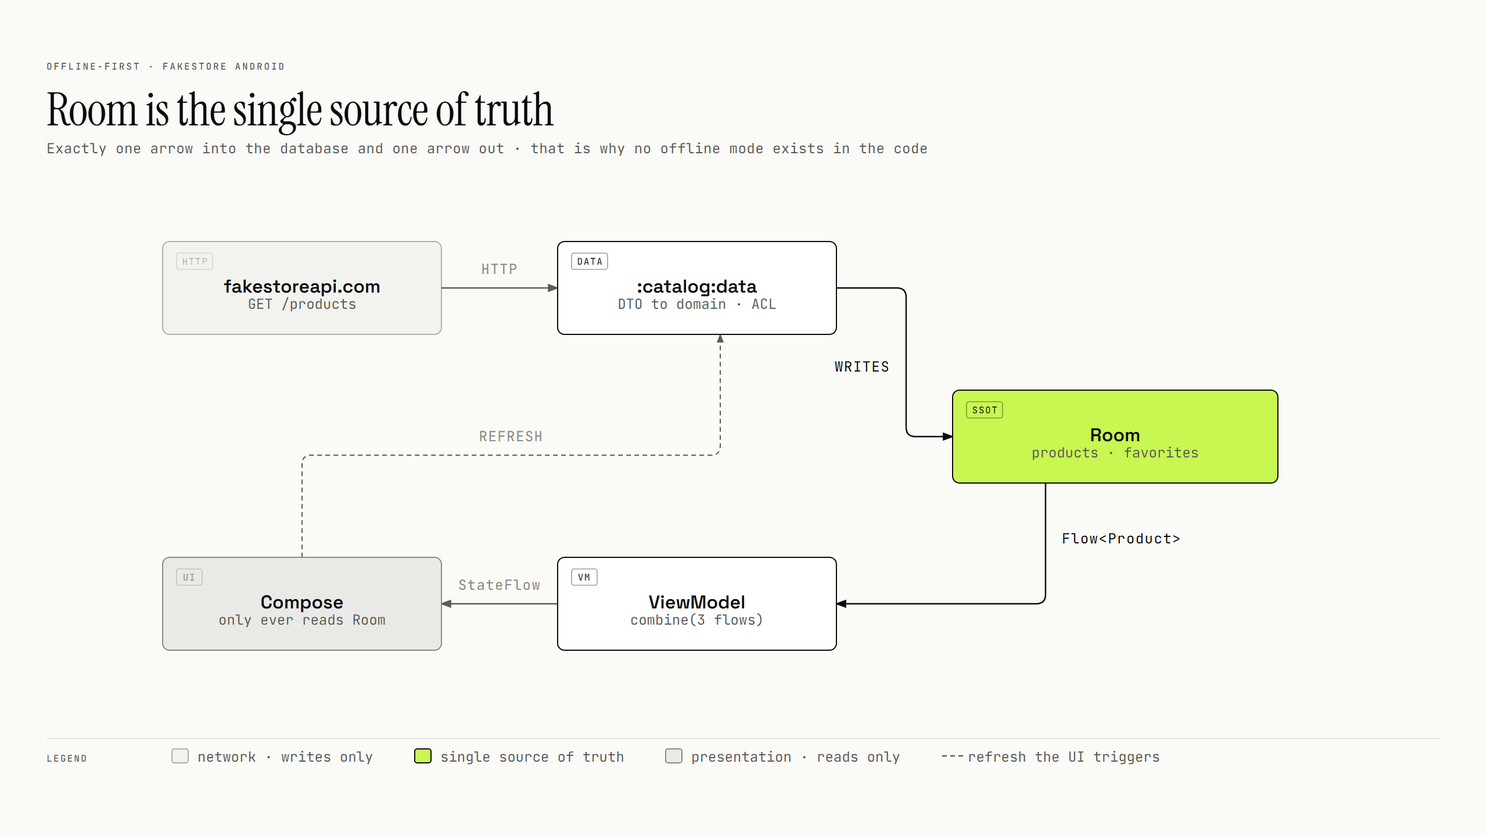
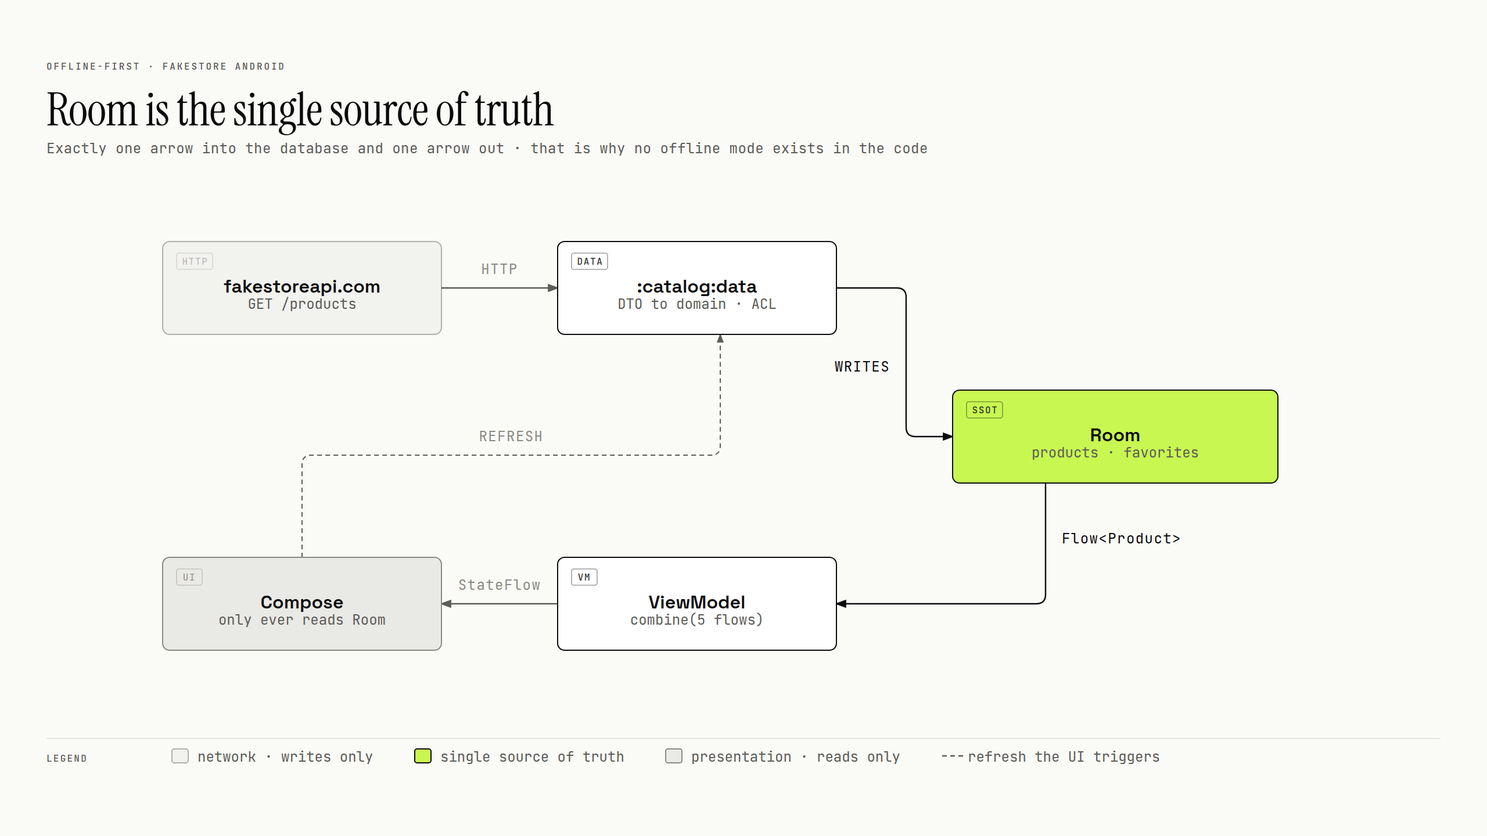
chore(docs): accuracy of various statements

diff --git a/docs/diagrams/01-module-graph.html b/docs/diagrams/01-module-graph.html
@@ -36,7 +36,7 @@
 
   <text x="40" y="60" fill="#5c5c56" font-size="8" font-family="'JetBrains Mono', ui-monospace, monospace" font-weight="500" letter-spacing="0.18em">ARCHITECTURE · FAKESTORE ANDROID</text>
   <text x="40" y="108" fill="#0b0b0c" font-size="40" font-family="'Instrument Serif', serif" font-weight="400" letter-spacing="-0.01em">Layers are Gradle modules</text>
-  <text x="40" y="132" fill="#5c5c56" font-size="12" font-family="'JetBrains Mono', ui-monospace, monospace" letter-spacing="0.02em">13 modules · the purity of :domain is a classpath property, not a code-review convention</text>
+  <text x="40" y="132" fill="#5c5c56" font-size="12" font-family="'JetBrains Mono', ui-monospace, monospace" letter-spacing="0.02em">13 production modules · the purity of :domain is a classpath property, not a code-review convention</text>
 
   <rect x="80" y="240" width="520" height="240" rx="8" fill="rgba(11,11,12,0.02)" stroke="rgba(11,11,12,0.10)" stroke-width="0.8"/>
   <rect x="96" y="244" width="136" height="14" rx="2" fill="#fafaf7"/>
@@ -106,7 +106,7 @@
   <rect x="988" y="402" width="31" height="14" rx="2" fill="none" stroke="#5c5c56" stroke-opacity="0.40" stroke-width="0.8"/>
   <text x="1004" y="412" fill="#5c5c56" fill-opacity="0.85" font-size="8" font-family="'JetBrains Mono', ui-monospace, monospace" font-weight="500" text-anchor="middle" letter-spacing="0.10em">DATA</text>
   <text x="1076" y="436" fill="#0b0b0c" font-size="16" font-weight="600" font-family="'Space Grotesk', system-ui, sans-serif" text-anchor="middle">:favorites:data</text>
-  <text x="1076" y="450" fill="#5c5c56" font-size="12" font-family="'JetBrains Mono', ui-monospace, monospace" text-anchor="middle">Room · optimistic</text>
+  <text x="1076" y="450" fill="#5c5c56" font-size="12" font-family="'JetBrains Mono', ui-monospace, monospace" text-anchor="middle">Room · local-first</text>
   <rect x="104" y="540" width="320" height="64" rx="6" fill="#fafaf7"/>
   <rect x="104" y="540" width="320" height="64" rx="6" fill="rgba(11,11,12,0.03)" stroke="rgba(11,11,12,0.30)" stroke-width="1"/>
   <rect x="116" y="550" width="36" height="14" rx="2" fill="none" stroke="rgba(11,11,12,0.30)" stroke-opacity="0.40" stroke-width="0.8"/>

diff --git a/docs/diagrams/02-single-source-of-truth.html b/docs/diagrams/02-single-source-of-truth.html
@@ -76,7 +76,7 @@
   <rect x="492" y="490" width="22" height="14" rx="2" fill="none" stroke="#0b0b0c" stroke-opacity="0.40" stroke-width="0.8"/>
   <text x="503" y="500" fill="#0b0b0c" fill-opacity="0.85" font-size="8" font-family="'JetBrains Mono', ui-monospace, monospace" font-weight="500" text-anchor="middle" letter-spacing="0.10em">VM</text>
   <text x="600" y="524" fill="#0b0b0c" font-size="16" font-weight="600" font-family="'Space Grotesk', system-ui, sans-serif" text-anchor="middle">ViewModel</text>
-  <text x="600" y="538" fill="#5c5c56" font-size="12" font-family="'JetBrains Mono', ui-monospace, monospace" text-anchor="middle">combine(3 flows)</text>
+  <text x="600" y="538" fill="#5c5c56" font-size="12" font-family="'JetBrains Mono', ui-monospace, monospace" text-anchor="middle">combine(5 flows)</text>
   <rect x="140" y="480" width="240" height="80" rx="6" fill="#fafaf7"/>
   <rect x="140" y="480" width="240" height="80" rx="6" fill="rgba(92,92,86,0.10)" stroke="#8a8a82" stroke-width="1"/>
   <rect x="152" y="490" width="22" height="14" rx="2" fill="none" stroke="#8a8a82" stroke-opacity="0.40" stroke-width="0.8"/>

diff --git a/docs/ARCHITECTURE.md b/docs/ARCHITECTURE.md
@@ -26,8 +26,17 @@ diseño elegido es el que hace compatibles SDUI y offline-first.
 - **Clean Architecture dentro de cada contexto** → `ui → domain ← data`, con inversión de dependencias.
 
 Al ser DDD ortodoxo, **las capas son módulos Gradle, no paquetes**. La consecuencia práctica es la que
-importa: `domain` no puede importar Retrofit ni Room porque no los tiene en el classpath. La disciplina la
-impone la herramienta, no la buena voluntad ni la revisión de código.
+importa: `domain` no tiene Retrofit ni Room en su classpath, así que importarlos ahí no compila.
+
+Vale la pena ser preciso, porque la versión absoluta de esa frase es falsa. No es imposible: se arregla
+agregando la dependencia al `build.gradle.kts` del módulo, que son nueve líneas. Lo que deja de poder
+hacerse es cometer la violación **desde el código de la aplicación** — hay que ir a un archivo de build
+donde el diff la declara. La regla no la impone un candado; la impone el classpath recortado, y lo que
+gana no es imposibilidad sino visibilidad.
+
+Hay un punto donde sí es absoluto: `*:domain` aplica `org.jetbrains.kotlin.jvm`, no `com.android.library`,
+así que no tiene `android.jar` en su classpath de compilación. `import android.content.Context` no resuelve
+nunca, agregues la dependencia que agregues; haría falta cambiarle el plugin al módulo.
 
 ### Grafo de módulos
 
@@ -39,16 +48,16 @@ impone la herramienta, no la buena voluntad ni la revisión de código.
 :catalog:ui              Compose + ViewModels + UiState + UiMappers.
 
 :favorites:domain        Kotlin puro. FavoritesRepository, ToggleFavorite, ObserveFavoriteIds.
-:favorites:data          Room. Escritura optimista local.
+:favorites:data          Room. Escritura local sobre FavoriteDao.
 :favorites:ui            Pantalla de favoritos.
 
 :shared:kernel           Kotlin puro. Lenguaje ubicuo: ProductId, AppError.
-:core:common             Either, DispatcherProvider, Formatters, Clock. Kotlin puro.
+:core:common             Kotlin puro. Either y sus operadores (map, flatMap, fold).
 :core:connectivity       NetworkMonitor (ConnectivityManager → Flow<Boolean>).
 :core:network            Retrofit/OkHttp/kotlinx.serialization, executeCall, ACL de errores.
 :core:database           Instancia física única de Room + entities + DAOs + migraciones.
-:core:designsystem       Tema M3, tokens, átomos, moléculas, organismos, FsIcons, test tags.
-:core:testing            Extensiones JUnit5, fakes, factories.
+:core:designsystem       Tema M3, tokens, átomos, moléculas, organismos, FsIcons, modelos de UI.
+:core:testing            Kotlin puro. MainDispatcherExtension + dependencias de test.
 ```
 
 `:core:connectivity` no vive dentro de `:core:network` porque lo consumen `:catalog:ui` y, en el diseño de
@@ -61,7 +70,9 @@ dependencia en los existentes. Ninguna reescribe la anterior.
 ### Reglas de dependencia
 
 1. `*:domain` es **Kotlin/JVM puro**: sin Android, sin Retrofit, sin Room, sin Compose.
-2. `*:data` implementa las interfaces que declara su `*:domain`. Hilt cablea en runtime.
+2. `*:data` implementa la interfaz de repositorio que declara su `*:domain`, y provee sobre ella los casos
+   de uso del dominio. `*:domain` no lleva ni una anotación de DI; Hilt resuelve y valida esos bindings en
+   tiempo de compilación.
 3. `*:ui` depende de `*:domain` (nunca de `*:data`), de `:core:designsystem`, y de los `:core:*` técnicos
    que no traen UI ni persistencia. Lo que la regla protege es que la presentación no toque Retrofit ni
    Room — no que tenga un número fijo de aristas.
@@ -88,7 +99,7 @@ arquitectura sobre el classpath— es trabajo pendiente, no algo que este repo y
 | DI | Hilt 2.60.1 + KSP 2.3.9. `hilt-lifecycle-viewmodel-compose` 1.4.0 en vez de `hilt-navigation-compose`, que arrastraría Navigation 2 |
 | Red | Retrofit 3.0.0 (BOM) + OkHttp 5.4.0 (BOM) + kotlinx.serialization 1.10.0 |
 | Persistencia | Room 2.8.4 (KSP) — última estable de la línea 2.x; la 3.0/KMP sigue en alpha ([ADR-0002](adr/0002-database-module.md)) |
-| Imágenes | Coil 3, con caché en disco |
+| Imágenes | Coil 3 sobre OkHttp, con el `ImageLoader` de fábrica — la caché en disco es su default, acá no se configura nada |
 | Fechas | `kotlin.time.Instant`/`Clock` — stdlib, estable desde Kotlin 2.3 ([ADR-0005, Decisión 3](adr/0005-catalog-data-layer.md#3-lastsyncedat-entra-en-este-bloque-y-no-trae-ninguna-dependencia)) |
 | Test | JUnit 5 (mannodermaus), `kotlinx-coroutines-test`, Turbine 1.2.1, MockWebServer. **Sin MockK**: los casos de uso son `fun interface`, así que los dobles son lambdas ([ADR-0004, Decisión 3](adr/0004-catalog-domain-model.md#3-la-forma-del-caso-de-uso-la-decide-su-contenido)). Para Room: Robolectric 4.16.1 + driver por defecto, con JUnit4 vía `junit-vintage-engine` ([ADR-0002](adr/0002-database-module.md), Corrección) |
 
@@ -121,18 +132,19 @@ referencial en disco.
 El eje que gobierna toda la presentación del catálogo no es *"¿falló la red?"* sino **"¿hay datos
 utilizables en Room?"**. Un fallo de refresh **nunca** debe tapar datos que el usuario ya tenía.
 
-El ViewModel combina tres flujos: `ObserveCatalog()` (Room), el resultado del refresh en curso, y
-`NetworkMonitor.isOnline`.
+El ViewModel combina cinco flujos: el catálogo ya cruzado con los favoritos (`CatalogSlice`), las
+categorías, `lastSyncedAt`, el estado del refresh en curso y `NetworkMonitor.isOnline`. Cuatro de ellos
+deciden el estado de la tabla de abajo; las categorías y los favoritos solo se pintan encima.
 
 | Caché | Refresh | Conexión | Estado | UI |
 |---|---|---|---|---|
 | vacía | en curso | — | `Loading` | Skeletons |
-| vacía | falló | offline | `Error(Network)` | Pantalla completa: *"Sin conexión…"* + Reintentar |
-| vacía | falló | online | `Error(appError)` | Pantalla completa con el mensaje de la ACL + Reintentar |
+| vacía | falló | offline | `Failure(offline = true)` | Pantalla completa: *"Sin conexión…"* + Reintentar |
+| vacía | falló | online | `Failure(offline = false)` | Pantalla completa con el mensaje de la ACL + Reintentar |
 | vacía | OK, 0 items | — | `Empty` | Estado vacío: el servidor respondió, pero no hay catálogo |
-| con datos | en curso | — | `Content` | Contenido + indicador de refresco |
-| con datos | falló | — | `Content` | Contenido + `FsStatusBanner` con la antigüedad + snackbar no bloqueante |
-| con datos | OK | — | `Content` | Contenido fresco |
+| con datos | en curso | — | `Ready` | Contenido + indicador de refresco |
+| con datos | falló | — | `Ready` | Contenido + `FsStatusBanner` con la antigüedad; snackbar **solo si el refresh lo pidió el usuario** |
+| con datos | OK | — | `Ready` | Contenido fresco |
 
 Detalles que cierran el caso:
 
@@ -142,7 +154,7 @@ Detalles que cierran el caso:
 - **Detalle sin caché.** `ProductDetailViewModel` **no** refresca al entrar: pedir el catálogo completo en
   cada tap sería un desperdicio. Solo dispara `RefreshCatalog` cuando el producto falta — que es exactamente
   el caso del deep link. Si un sync exitoso tampoco lo trae, el estado es `Unavailable`, no un error.
-- **Imágenes.** La caché en disco de Coil las conserva offline; las que nunca se descargaron caen a
+- **Imágenes.** La caché en disco que Coil trae por defecto las conserva offline; las que nunca se descargaron caen a
   placeholder con `contentDescription`, sin romper la fila.
 
 Los estados de la tabla son **tests de ViewModel**, no verificación manual.
@@ -249,7 +261,7 @@ contexto**. Las últimas cuatro corresponden al diseño de [«Diseñado, no cons
 
 | # | Decisión | Por qué | Trade-off / cuándo NO lo haría |
 |---|---|---|---|
-| 1 | [**DDD ortodoxo: capa = módulo Gradle**](#2-dos-ideas-ordenan-todo) | La pureza de `domain` la garantiza el build, no la disciplina. Imposible importar Retrofit en un módulo que no lo tiene en el classpath. | ~20 módulos para 2 pantallas. Fricción de Gradle y sync más lento. En un equipo chico o un producto exploratorio usaría vertical slices con capas como paquetes. |
+| 1 | [**DDD ortodoxo: capa = módulo Gradle**](#2-dos-ideas-ordenan-todo) | La pureza de `domain` es una propiedad del classpath: importar Retrofit ahí no compila. No es imposible —se edita el build del módulo— pero deja de ser una violación cometible desde el código, y el framework de Android sí queda fuera de alcance. | 14 módulos para 2 pantallas. Fricción de Gradle y sync más lento. En un equipo chico o un producto exploratorio usaría vertical slices con capas como paquetes. |
 | 2 | [**Módulo = bounded context**](#2-dos-ideas-ordenan-todo) | Un contexto se entiende, se testea y se reemplaza entero. Crecer es agregar módulos, no tocar los existentes. Un equipo puede ser dueño de un contexto. | Exige definir contratos explícitos entre contextos y resistir la tentación del atajo. |
 | 3 | [**Cruce entre contextos solo a nivel `domain`**](#reglas-de-dependencia) | El catálogo necesita saber qué es favorito. Permitir la arista en `domain` (Customer/Supplier) es honesto; permitirla en `data` sería un acoplamiento invisible. | Es una regla que hay que verificar, no solo escribir. De ahí que falten los tests de arquitectura. |
 | 4 | [**Una sola base física de Room, DAOs separados**](adr/0002-database-module.md) | En móvil, N conexiones SQLite cuestan memoria, batería y migraciones. Los límites lógicos se mantienen porque cada `data` solo ve su DAO. | Rompe la pureza ortodoxa: hay entidades de varios contextos en un módulo técnico compartido. Pragmatismo móvil consciente. |

diff --git a/README.md b/README.md
@@ -78,7 +78,16 @@ Two ideas, applied at different scales:
 
 The consequence worth stating plainly: **layers are Gradle modules, so purity is a classpath property, not a
 code-review convention.** You cannot accidentally import Retrofit into `:catalog:domain`, because Retrofit is
-not on its classpath. The tool enforces the rule; nobody has to remember it.
+not on its classpath.
+
+Worth being precise, because the absolute version of that sentence is false. It is not impossible — adding
+the dependency to that module's nine-line `build.gradle.kts` makes it compile. What stops being possible is
+committing the violation *from application code*: you have to open a build file, where the diff states it.
+The rule is not a lock, it is a trimmed classpath, and what it buys is visibility rather than impossibility.
+
+One part is absolute: `*:domain` applies `org.jetbrains.kotlin.jvm`, not `com.android.library`, so it has no
+`android.jar` on its compile classpath. `import android.content.Context` never resolves there, whatever you
+add to `dependencies {}`.
 
 ### Module graph
 
@@ -90,13 +99,16 @@ needs to know *which products are favorites* to draw its hearts, and the favorit
 crossing is allowed.
 
 `:core:testing` sits apart on purpose. The `fakestore.testing` convention plugin puts it on the test
-classpath of every module, so drawing those thirteen edges would bury the production graph under
-test-only wiring that no production code can see.
+classpath of twelve of the other thirteen modules — all but `:core:connectivity`, which has no tests of
+its own — so drawing those twelve edges would bury the production graph under test-only wiring that no
+production code can see.
 
 ### Dependency rules
 
 1. `*:domain` is **pure Kotlin/JVM** — no Android, no Retrofit, no Room, no Compose.
-2. `*:data` implements the interfaces its own `*:domain` declares. Hilt wires them at runtime.
+2. `*:data` implements the repository interface its own `*:domain` declares, and provides the domain's use
+   cases over it. `*:domain` carries no DI annotation at all; Hilt resolves and validates those bindings at
+   compile time.
 3. `*:ui` depends on `*:domain` (**never** on `*:data`), on `:core:designsystem`, and on technical `:core:*`
    modules that carry neither UI nor persistence.
 4. **Contexts cross only at `domain` level.** A `data` module never depends on another context — that would
@@ -134,8 +146,10 @@ Two details close the case:
 - **The retry is automatic.** `NetworkMonitor` emits the offline→online transition and, if the last refresh
   failed, fires `RefreshCatalog` on its own. The user never has to find the button, and the staleness banner
   closes itself. Verified on an emulator: coming back from airplane mode, you cannot tap Retry fast enough.
-- **"No connection" and "the server failed" are different messages.** `AppError.Network` produces
-  connectivity-specific copy; everything else goes through the error ACL.
+- **Four different messages, not one.** Being offline short-circuits the rest: if `NetworkMonitor`
+  says there is no connection, the copy is connectivity-specific whatever the failure was. Online, the
+  ACL decides between `AppError.Network`, `Http`/`EmptyBody` and `Unknown`, each with its own title
+  and body.
 
 Every row of that diagram is a **ViewModel test with virtual time**, not a manual check.
 
@@ -218,7 +232,7 @@ The honest way to present a decision is: **what I gained, what I paid, and when 
 
 | # | Decision | What I gained | What I paid / when I'd choose otherwise |
 |---|---|---|---|
-| 1 | **A layer is a Gradle module, not a package** | `domain` purity is guaranteed by the build. Importing Retrofit into a domain module is not a discipline problem — it is a compile error. | 14 modules for two screens; slower syncs and more Gradle friction. On a small team or an exploratory product I would use vertical slices with layers as packages. |
+| 1 | **A layer is a Gradle module, not a package** | `domain` purity is a classpath property: importing Retrofit there is a compile error. Not impossible — you can edit that module's build file — but the violation can no longer be committed from application code, and the Android framework is genuinely out of reach. | 14 modules for two screens; slower syncs and more Gradle friction. On a small team or an exploratory product I would use vertical slices with layers as packages. |
 | 2 | **A module group is a bounded context** | A context can be understood, tested and replaced whole. Growing means adding modules, not editing existing ones. | Requires explicit contracts between contexts and the discipline to resist the shortcut. |
 | 3 | **Contexts cross only at `domain` level** | The catalog needs to know what is a favorite. Allowing that edge at `domain` (Customer/Supplier) is honest; allowing it at `data` would be an invisible coupling. | It is a rule that must be *verified*, not just written. Hence Stage 4. |
 | 4 | **One physical Room database, separate DAOs** | On mobile, N SQLite connections cost memory, battery and migrations. DDD's logical boundaries survive because each `data` module only ever sees its own DAO. | It breaks orthodox purity: entities from several contexts live in one shared technical module. A conscious mobile-pragmatism trade. |
@@ -325,7 +339,7 @@ in this README and in review; Stage 4 is where they become build failures instea
 | `:core:database` | Android lib | The single Room instance, entities, DAOs, migrations |
 | `:core:designsystem` | Compose lib | M3 theme, tokens, atoms → molecules → organisms, `FsIcons` |
 | `:core:connectivity` | Android lib | `NetworkMonitor`: `ConnectivityManager` as a `Flow<Boolean>` |
-| `:core:testing` | Pure Kotlin | JUnit 5 extensions shared by every module's tests |
+| `:core:testing` | Pure Kotlin | `MainDispatcherExtension` and the shared test dependencies |
 
 Seven **convention plugins** in `build-logic/` carry the shared build configuration, so a module's
 `build.gradle.kts` is usually a plugin list and a handful of dependencies.
@@ -342,6 +356,6 @@ Seven **convention plugins** in `build-logic/` carry the shared build configurat
 | DI | Hilt 2.60.1 + KSP |
 | Network | Retrofit 3.0.0 + OkHttp 5.4.0 + kotlinx.serialization |
 | Persistence | Room 2.8.4, schemas exported and version-controlled |
-| Images | Coil 3 with disk cache |
+| Images | Coil 3 over OkHttp, stock `ImageLoader` — the disk cache is Coil's default, not a setting here |
 | Time | `kotlin.time.Instant` / `Clock` from the stdlib |
 | Test | JUnit 5, Turbine, MockWebServer, Robolectric |

diff --git a/docs/adr/0007-favorites-context.md b/docs/adr/0007-favorites-context.md
@@ -141,8 +141,9 @@ de carrera entre el `SELECT` y el `INSERT`/`DELETE`, que con dos taps rápidos e
 **Gano** que un tap sobre una grilla que todavía no recompuso no pueda escribir el valor equivocado. Es el
 mismo principio que gobierna [«Room como fuente única de verdad»](../ARCHITECTURE.md#room-como-fuente-única-de-verdad): **una sola fuente de verdad, y no es la UI**.
 
-**Pago** un parámetro del design system que se ignora, lo que a primera vista parece un descuido y hay que
-explicar en el código.
+**Pago** un parámetro del design system que se ignora, lo que a primera vista parece un descuido. La
+explicación no vive en un comentario —el repo no lleva ninguno— sino en esta decisión, que es lo que hay que
+leer cuando alguien pregunte por ese `Boolean`.
 
 **Cuándo elegiría otra cosa**: con un backend que exponga `PUT /favorites/{id} {favorite: true}`, un
 `setFavorite(id, desired)` idempotente encaja mejor con el reintento del worker — reintentar un `toggle` es
@@ -192,8 +193,8 @@ fila se borra es el sync, y el sync todavía no existe.
 ## Consecuencias
 
 - **El diseño inicial cambia en tres lugares**: los cuatro ítems de favoritos se cierran, el ítem de la tabla se
-  cierra), [el grafo de módulos](../ARCHITECTURE.md#grafo-de-módulos) (`:core:database` deja de estar «acotado a productos»; `:core:testing` se cierra al final del
-  bloque). La Etapa 1 pasa a **17 módulos**, 18 con `:core:testing`.
+  cierra, y [el grafo de módulos](../ARCHITECTURE.md#grafo-de-módulos) (`:core:database` deja de estar «acotado a productos»; `:core:testing` se cierra al final del
+  bloque). La Etapa 1 pasa a **13 módulos**, 14 con `:core:testing`.
 - **La regla 4 queda ejercida en ambas direcciones y es verificable en el classpath**, que es lo que la
   Etapa 4 va a automatizar. `:favorites:ui` no debe ver Room, Retrofit ni `:catalog:ui`.
 - **`:favorites:domain` es más chico que `:catalog:domain`**: no depende de `:core:common`, porque sin

diff --git a/docs/adr/0001-networking-module.md b/docs/adr/0001-networking-module.md
@@ -62,9 +62,10 @@ sealed interface AppError {
 ```
 
 `EmptyBody` deja de ser un caso decorativo: por el hallazgo de la tabla de arriba, es la señal real de
-"producto no encontrado" en esta API (200 + body vacío), no un 404. Amerita un comentario de una línea en el
-código citando el comportamiento — no es una decisión de diseño, es una excentricidad de la API que hay que
-dejar documentada para no parecer un bug futuro.
+"producto no encontrado" en esta API (200 + body vacío), no un 404. Es una excentricidad de la API, no una
+decisión de diseño, y hay que dejarla documentada para que no parezca un bug futuro. Va acá y no en un
+comentario: el código de este repo no lleva comentarios, así que este ADR es el lugar donde se busca por qué
+existe `EmptyBody`.
 
 - **Pago diferido**: cuando exista el servidor propio de la Etapa 2, si ahí sí se definen códigos de error
   propios, `AppError.Api` + `ErrorCode` vuelven — es el "sistema más elaborado" que ya se anticipaba.
@@ -117,6 +118,9 @@ Efecto neto: `OkHttpClientFactory` recibe una lista de interceptors casi vacía 
   campos que hoy se omiten (`Api`, `ErrorCode`, qualifiers de timeout) tienen un lugar claro adonde volver.
 
 ## Dependencias (BOM)
+
+> Versiones al 2026-08-21, cuando se cerró el módulo. La fuente viva es `gradle/libs.versions.toml`;
+> este cuadro no se actualiza.
 
 | Librería | Versión (BOM) |
 |---|---|

diff --git a/docs/adr/0006-catalog-presentation.md b/docs/adr/0006-catalog-presentation.md
@@ -316,8 +316,13 @@ catálogo entero.
 ### El snackbar no estrena copy propio
 
 La [Decisión 2](#2-el-viewmodel-no-habla-de-string-el-mapeo-a-fsuistate-ocurre-en-el-borde-composable) dejó el canal `Channel<AppError>` para el fallo de un refresh pedido por el usuario, sin decidir qué texto
-mostrar. La pantalla reusa `appErrorStrings(error, offline = false).body` — el mismo cuerpo del error
-bloqueante. Para `AppError.Network`, que es el caso real de un pull-to-refresh sin red, eso es exactamente
+mostrar. La pantalla reusa **la copy** del error bloqueante, pero **no puede reusar `appErrorStrings`**:
+esa función devuelve `@StringRes Int`, y resolverlos exige `stringResource`, que es `@Composable`. El
+snackbar se muestra desde el `LaunchedEffect` que colecta el canal, o sea desde una corrutina y fuera de la
+composición. La salida es `catalogErrorMessage()` (`CatalogScreen.kt:151`): resuelve los tres cuerpos
+durante la composición y devuelve un lambda plano, que `rememberUpdatedState` mantiene fresco. Duplica el
+`when` de `appErrorStrings` a cambio de no arrastrar el `Context` a la corrutina. Para `AppError.Network`,
+que es el caso real de un pull-to-refresh sin red, eso es exactamente
 «Revisa tu conexión y vuelve a intentarlo.»
 
 **Gano** un string menos y que la causa llegue al usuario en vez de un genérico. **Pago** que el snackbar

diff --git a/docs/adr/0002-database-module.md b/docs/adr/0002-database-module.md
@@ -105,6 +105,15 @@ necesita todavía.
   `deleteByProductId(id: Int)`.
 - `SyncMetadataDao`: `observe(scope: String): Flow<SyncMetadataEntity?>`, `upsert(entity: SyncMetadataEntity)`.
 
+> **Las firmas crecieron después; la forma, no.** `ProductDao.observeAll` gana el filtro por categoría en
+> [ADR-0004, Decisión 4](0004-catalog-domain-model.md#4-el-filtro-por-categoría-entra-ahora-y-se-deriva-de-room);
+> `upsertAll` gana `deleteMissing` y el `syncAll` transaccional en
+> [ADR-0005, Decisión 2](0005-catalog-data-layer.md#2-el-refresh-escribe-con-upsert--poda-por-id-dentro-de-una-transaction);
+> y `FavoriteDao` cambia `upsert`/`deleteByProductId` por `count`/`insert`/`deleteById` bajo un `toggle`
+> atómico en [ADR-0007, Decisión 4](0007-favorites-context.md#4-el-toggle-es-atómico-en-el-dao-y-descarta-el-boolean-que-manda-la-ui).
+> `SyncMetadataDao.observe` shipeó como `observeByScope`. Lo que esta decisión fija —`Flow` para leer,
+> `suspend` para escribir— se sostiene en los tres.
+
 ### 4. `FakeStoreDatabase` + Hilt — mismo patrón que `:core:network`
 
 `di/DatabaseModule.kt` provee `FakeStoreDatabase` (vía `Room.databaseBuilder`, aplicando `Context` de
